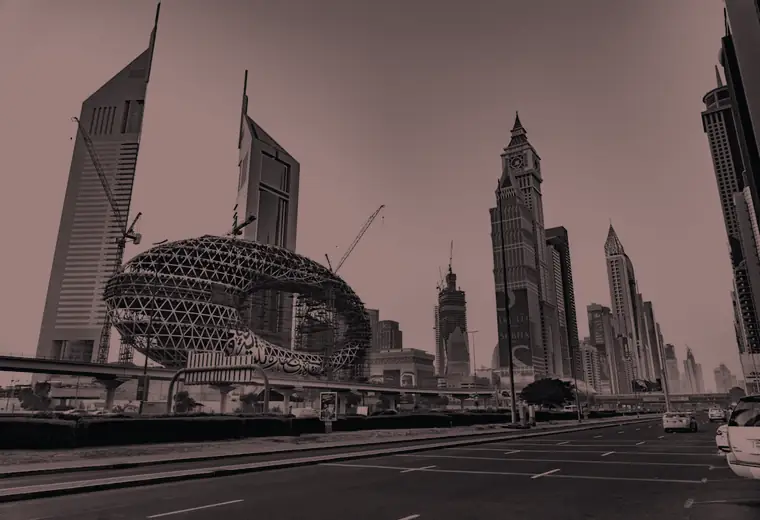
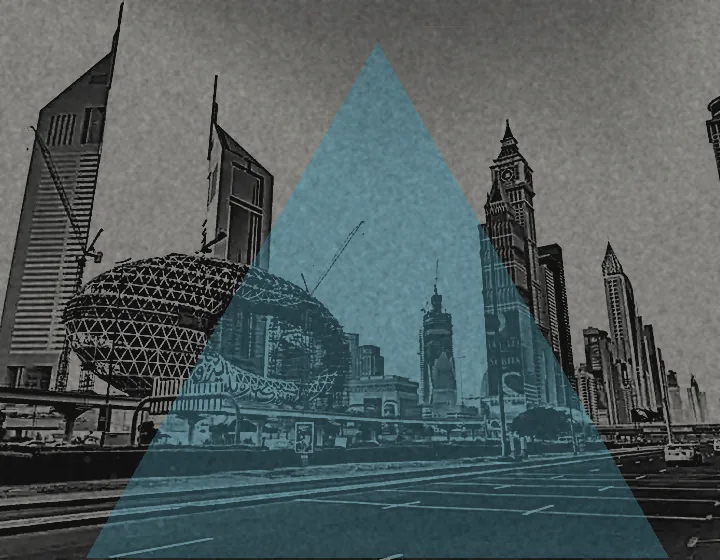
Reprint the whole image set in the deck's press treatment
The guidelines' images are not photographs. They are a paper ground, a gritty
high-contrast photographic plate, flat brand-colour geometry printed slightly
out of register, and visible grain. tools/build_imagery.py rebuilds every image
on the site that way from its own Dubai photography, so what was a stock-photo
grid becomes one press run.

Heroes print on the deck's bone (#cecabe), the inset plate p3 uses. Service
cards print on the charcoal, since they sit inside dark-filling cards, with the
flat shape in the card's own pillar colour. Full-bleed bands carry white copy,
so their shape sits far right at low strength rather than under the text.

Composition varies across the set — scale, placement, and whether the mark is
printed solid or as the logomark's rounded outline — so ten plates read as a run
rather than one template used ten times. Every plate is normalised before the
curve, because night and daylight sources otherwise print at wildly different
densities and the set stops holding together.

Grain is blurred to 0.9px: sharper roughly doubles every file, since WebP cannot
encode high-frequency noise, and that is not a trade worth making on a
fetchpriority=high hero. The card scrim lightened to match, because the
darkening is now printed into the image rather than laid over it.

Also drops the triangular A from the About eyebrow — at 0.68rem with .19em
tracking it detached from its word and read as a broken glyph. It belongs in
display type.
[…]

diff --git a/about.html b/about.html
@@ -245,7 +245,7 @@
  ]
 }
 </script>
-<link rel="stylesheet" href="assets/css/style.css?v=21">
+<link rel="stylesheet" href="assets/css/style.css?v=22">
 </head>
 <body class="is-loading">
 <a class="skip" href="#main">Skip to content</a>
@@ -309,7 +309,7 @@
       <div class="crumbs"><a href="index.html">Home</a> / <span>About</span></div>
       <div class="hero3__grid">
         <div class="hero3__copy">
-          <span class="eyebrow eyebrow--dot"><span class="triA">A</span>bout the firm</span>
+          <span class="eyebrow eyebrow--dot">About the firm</span>
           <h1 class="h-mega split">The people doing the thinking are the people you hire.</h1>
           <p class="say">A strategic advisory firm dedicated to helping businesses navigate complexity and achieve sustainable growth &mdash; working with owners and leadership teams across the UAE and the wider GCC.</p>
           <div class="btn-row"><a class="btn btn--lg" href="contact.html">Book a consultation <svg viewBox="0 0 16 16" fill="none" stroke="currentColor" stroke-width="1.7" aria-hidden="true"><path d="M2 8h12M9 3l5 5-5 5"/></svg></a><a class="btn btn--ghost btn--lg" href="services.html">See what we do <svg viewBox="0 0 16 16" fill="none" stroke="currentColor" stroke-width="1.7" aria-hidden="true"><path d="M2 8h12M9 3l5 5-5 5"/></svg></a></div>
@@ -487,6 +487,6 @@
   <svg viewBox="0 0 24 24" aria-hidden="true"><path d="M12 2a10 10 0 00-8.6 15L2 22l5.2-1.4A10 10 0 1012 2zm0 18a8 8 0 01-4.1-1.1l-.3-.2-3 .8.8-2.9-.2-.3A8 8 0 1112 20zm4.4-5.8c-.2-.1-1.4-.7-1.6-.8s-.4-.1-.6.1-.6.8-.8 1-.3.2-.6.1a6.5 6.5 0 01-3.2-2.8c-.2-.4.2-.4.6-1.2a.5.5 0 000-.5c0-.1-.6-1.4-.8-1.9s-.4-.4-.6-.4h-.5a1 1 0 00-.7.3 2.9 2.9 0 00-.9 2.2 5 5 0 001.1 2.7 11.5 11.5 0 004.4 3.9c1.6.6 2.2.7 3 .6a2.6 2.6 0 001.7-1.2 2.1 2.1 0 00.1-1.2c0-.1-.2-.2-.6-.3z"/></svg>
 </a>
 
-<script src="assets/js/main.js?v=21" defer></script>
+<script src="assets/js/main.js?v=22" defer></script>
 </body>
 </html>

diff --git a/services/advertising-research/index.html b/services/advertising-research/index.html
@@ -30,7 +30,7 @@
 <link rel="preload" as="style" href="https://fonts.googleapis.com/css2?family=Jost:wght@200;300;400;500&family=Poppins:wght@300;400;500;600&display=swap">
 <link rel="stylesheet" href="https://fonts.googleapis.com/css2?family=Jost:wght@200;300;400;500&family=Poppins:wght@300;400;500;600&display=swap" media="print" onload="this.media='all'">
 <noscript><link rel="stylesheet" href="https://fonts.googleapis.com/css2?family=Jost:wght@200;300;400;500&family=Poppins:wght@300;400;500;600&display=swap"></noscript>
-<link rel="stylesheet" href="../../assets/css/style.css?v=21">
+<link rel="stylesheet" href="../../assets/css/style.css?v=22">
 <script type="application/ld+json">
 {
  "@context": "https://schema.org",
@@ -428,6 +428,6 @@
   <svg viewBox="0 0 24 24" aria-hidden="true"><path d="M12 2a10 10 0 00-8.6 15L2 22l5.2-1.4A10 10 0 1012 2zm0 18a8 8 0 01-4.1-1.1l-.3-.2-3 .8.8-2.9-.2-.3A8 8 0 1112 20zm4.4-5.8c-.2-.1-1.4-.7-1.6-.8s-.4-.1-.6.1-.6.8-.8 1-.3.2-.6.1a6.5 6.5 0 01-3.2-2.8c-.2-.4.2-.4.6-1.2a.5.5 0 000-.5c0-.1-.6-1.4-.8-1.9s-.4-.4-.6-.4h-.5a1 1 0 00-.7.3 2.9 2.9 0 00-.9 2.2 5 5 0 001.1 2.7 11.5 11.5 0 004.4 3.9c1.6.6 2.2.7 3 .6a2.6 2.6 0 001.7-1.2 2.1 2.1 0 00.1-1.2c0-.1-.2-.2-.6-.3z"/></svg>
 </a>
 
-<script src="../../assets/js/main.js?v=21" defer></script>
+<script src="../../assets/js/main.js?v=22" defer></script>
 </body>
 </html>

diff --git a/services/innovation-ai/index.html b/services/innovation-ai/index.html
@@ -30,7 +30,7 @@
 <link rel="preload" as="style" href="https://fonts.googleapis.com/css2?family=Jost:wght@200;300;400;500&family=Poppins:wght@300;400;500;600&display=swap">
 <link rel="stylesheet" href="https://fonts.googleapis.com/css2?family=Jost:wght@200;300;400;500&family=Poppins:wght@300;400;500;600&display=swap" media="print" onload="this.media='all'">
 <noscript><link rel="stylesheet" href="https://fonts.googleapis.com/css2?family=Jost:wght@200;300;400;500&family=Poppins:wght@300;400;500;600&display=swap"></noscript>
-<link rel="stylesheet" href="../../assets/css/style.css?v=21">
+<link rel="stylesheet" href="../../assets/css/style.css?v=22">
 <script type="application/ld+json">
 {
  "@context": "https://schema.org",
@@ -414,6 +414,6 @@
   <svg viewBox="0 0 24 24" aria-hidden="true"><path d="M12 2a10 10 0 00-8.6 15L2 22l5.2-1.4A10 10 0 1012 2zm0 18a8 8 0 01-4.1-1.1l-.3-.2-3 .8.8-2.9-.2-.3A8 8 0 1112 20zm4.4-5.8c-.2-.1-1.4-.7-1.6-.8s-.4-.1-.6.1-.6.8-.8 1-.3.2-.6.1a6.5 6.5 0 01-3.2-2.8c-.2-.4.2-.4.6-1.2a.5.5 0 000-.5c0-.1-.6-1.4-.8-1.9s-.4-.4-.6-.4h-.5a1 1 0 00-.7.3 2.9 2.9 0 00-.9 2.2 5 5 0 001.1 2.7 11.5 11.5 0 004.4 3.9c1.6.6 2.2.7 3 .6a2.6 2.6 0 001.7-1.2 2.1 2.1 0 00.1-1.2c0-.1-.2-.2-.6-.3z"/></svg>
 </a>
 
-<script src="../../assets/js/main.js?v=21" defer></script>
+<script src="../../assets/js/main.js?v=22" defer></script>
 </body>
 </html>

diff --git a/services/management-consultancy/index.html b/services/management-consultancy/index.html
@@ -30,7 +30,7 @@
 <link rel="preload" as="style" href="https://fonts.googleapis.com/css2?family=Jost:wght@200;300;400;500&family=Poppins:wght@300;400;500;600&display=swap">
 <link rel="stylesheet" href="https://fonts.googleapis.com/css2?family=Jost:wght@200;300;400;500&family=Poppins:wght@300;400;500;600&display=swap" media="print" onload="this.media='all'">
 <noscript><link rel="stylesheet" href="https://fonts.googleapis.com/css2?family=Jost:wght@200;300;400;500&family=Poppins:wght@300;400;500;600&display=swap"></noscript>
-<link rel="stylesheet" href="../../assets/css/style.css?v=21">
+<link rel="stylesheet" href="../../assets/css/style.css?v=22">
 <script type="application/ld+json">
 {
  "@context": "https://schema.org",
@@ -414,6 +414,6 @@
   <svg viewBox="0 0 24 24" aria-hidden="true"><path d="M12 2a10 10 0 00-8.6 15L2 22l5.2-1.4A10 10 0 1012 2zm0 18a8 8 0 01-4.1-1.1l-.3-.2-3 .8.8-2.9-.2-.3A8 8 0 1112 20zm4.4-5.8c-.2-.1-1.4-.7-1.6-.8s-.4-.1-.6.1-.6.8-.8 1-.3.2-.6.1a6.5 6.5 0 01-3.2-2.8c-.2-.4.2-.4.6-1.2a.5.5 0 000-.5c0-.1-.6-1.4-.8-1.9s-.4-.4-.6-.4h-.5a1 1 0 00-.7.3 2.9 2.9 0 00-.9 2.2 5 5 0 001.1 2.7 11.5 11.5 0 004.4 3.9c1.6.6 2.2.7 3 .6a2.6 2.6 0 001.7-1.2 2.1 2.1 0 00.1-1.2c0-.1-.2-.2-.6-.3z"/></svg>
 </a>
 
-<script src="../../assets/js/main.js?v=21" defer></script>
+<script src="../../assets/js/main.js?v=22" defer></script>
 </body>
 </html>

diff --git a/services/marketing-research/index.html b/services/marketing-research/index.html
@@ -30,7 +30,7 @@
 <link rel="preload" as="style" href="https://fonts.googleapis.com/css2?family=Jost:wght@200;300;400;500&family=Poppins:wght@300;400;500;600&display=swap">
 <link rel="stylesheet" href="https://fonts.googleapis.com/css2?family=Jost:wght@200;300;400;500&family=Poppins:wght@300;400;500;600&display=swap" media="print" onload="this.media='all'">
 <noscript><link rel="stylesheet" href="https://fonts.googleapis.com/css2?family=Jost:wght@200;300;400;500&family=Poppins:wght@300;400;500;600&display=swap"></noscript>
-<link rel="stylesheet" href="../../assets/css/style.css?v=21">
+<link rel="stylesheet" href="../../assets/css/style.css?v=22">
 <script type="application/ld+json">
 {
  "@context": "https://schema.org",
@@ -414,6 +414,6 @@
   <svg viewBox="0 0 24 24" aria-hidden="true"><path d="M12 2a10 10 0 00-8.6 15L2 22l5.2-1.4A10 10 0 1012 2zm0 18a8 8 0 01-4.1-1.1l-.3-.2-3 .8.8-2.9-.2-.3A8 8 0 1112 20zm4.4-5.8c-.2-.1-1.4-.7-1.6-.8s-.4-.1-.6.1-.6.8-.8 1-.3.2-.6.1a6.5 6.5 0 01-3.2-2.8c-.2-.4.2-.4.6-1.2a.5.5 0 000-.5c0-.1-.6-1.4-.8-1.9s-.4-.4-.6-.4h-.5a1 1 0 00-.7.3 2.9 2.9 0 00-.9 2.2 5 5 0 001.1 2.7 11.5 11.5 0 004.4 3.9c1.6.6 2.2.7 3 .6a2.6 2.6 0 001.7-1.2 2.1 2.1 0 00.1-1.2c0-.1-.2-.2-.6-.3z"/></svg>
 </a>
 
-<script src="../../assets/js/main.js?v=21" defer></script>
+<script src="../../assets/js/main.js?v=22" defer></script>
 </body>
 </html>

diff --git a/services/project-development/index.html b/services/project-development/index.html
@@ -30,7 +30,7 @@
 <link rel="preload" as="style" href="https://fonts.googleapis.com/css2?family=Jost:wght@200;300;400;500&family=Poppins:wght@300;400;500;600&display=swap">
 <link rel="stylesheet" href="https://fonts.googleapis.com/css2?family=Jost:wght@200;300;400;500&family=Poppins:wght@300;400;500;600&display=swap" media="print" onload="this.media='all'">
 <noscript><link rel="stylesheet" href="https://fonts.googleapis.com/css2?family=Jost:wght@200;300;400;500&family=Poppins:wght@300;400;500;600&display=swap"></noscript>
-<link rel="stylesheet" href="../../assets/css/style.css?v=21">
+<link rel="stylesheet" href="../../assets/css/style.css?v=22">
 <script type="application/ld+json">
 {
  "@context": "https://schema.org",
@@ -414,6 +414,6 @@
   <svg viewBox="0 0 24 24" aria-hidden="true"><path d="M12 2a10 10 0 00-8.6 15L2 22l5.2-1.4A10 10 0 1012 2zm0 18a8 8 0 01-4.1-1.1l-.3-.2-3 .8.8-2.9-.2-.3A8 8 0 1112 20zm4.4-5.8c-.2-.1-1.4-.7-1.6-.8s-.4-.1-.6.1-.6.8-.8 1-.3.2-.6.1a6.5 6.5 0 01-3.2-2.8c-.2-.4.2-.4.6-1.2a.5.5 0 000-.5c0-.1-.6-1.4-.8-1.9s-.4-.4-.6-.4h-.5a1 1 0 00-.7.3 2.9 2.9 0 00-.9 2.2 5 5 0 001.1 2.7 11.5 11.5 0 004.4 3.9c1.6.6 2.2.7 3 .6a2.6 2.6 0 001.7-1.2 2.1 2.1 0 00.1-1.2c0-.1-.2-.2-.6-.3z"/></svg>
 </a>
 
-<script src="../../assets/js/main.js?v=21" defer></script>
+<script src="../../assets/js/main.js?v=22" defer></script>
 </body>
 </html>

diff --git a/services/sourcing-procurement/index.html b/services/sourcing-procurement/index.html
@@ -30,7 +30,7 @@
 <link rel="preload" as="style" href="https://fonts.googleapis.com/css2?family=Jost:wght@200;300;400;500&family=Poppins:wght@300;400;500;600&display=swap">
 <link rel="stylesheet" href="https://fonts.googleapis.com/css2?family=Jost:wght@200;300;400;500&family=Poppins:wght@300;400;500;600&display=swap" media="print" onload="this.media='all'">
 <noscript><link rel="stylesheet" href="https://fonts.googleapis.com/css2?family=Jost:wght@200;300;400;500&family=Poppins:wght@300;400;500;600&display=swap"></noscript>
-<link rel="stylesheet" href="../../assets/css/style.css?v=21">
+<link rel="stylesheet" href="../../assets/css/style.css?v=22">
 <script type="application/ld+json">
 {
  "@context": "https://schema.org",
@@ -414,6 +414,6 @@
   <svg viewBox="0 0 24 24" aria-hidden="true"><path d="M12 2a10 10 0 00-8.6 15L2 22l5.2-1.4A10 10 0 1012 2zm0 18a8 8 0 01-4.1-1.1l-.3-.2-3 .8.8-2.9-.2-.3A8 8 0 1112 20zm4.4-5.8c-.2-.1-1.4-.7-1.6-.8s-.4-.1-.6.1-.6.8-.8 1-.3.2-.6.1a6.5 6.5 0 01-3.2-2.8c-.2-.4.2-.4.6-1.2a.5.5 0 000-.5c0-.1-.6-1.4-.8-1.9s-.4-.4-.6-.4h-.5a1 1 0 00-.7.3 2.9 2.9 0 00-.9 2.2 5 5 0 001.1 2.7 11.5 11.5 0 004.4 3.9c1.6.6 2.2.7 3 .6a2.6 2.6 0 001.7-1.2 2.1 2.1 0 00.1-1.2c0-.1-.2-.2-.6-.3z"/></svg>
 </a>
 
-<script src="../../assets/js/main.js?v=21" defer></script>
+<script src="../../assets/js/main.js?v=22" defer></script>
 </body>
 </html>

diff --git a/404.html b/404.html
@@ -29,7 +29,7 @@
 <link rel="preload" as="style" href="https://fonts.googleapis.com/css2?family=Jost:wght@200;300;400;500&family=Poppins:wght@300;400;500;600&display=swap">
 <link rel="stylesheet" href="https://fonts.googleapis.com/css2?family=Jost:wght@200;300;400;500&family=Poppins:wght@300;400;500;600&display=swap" media="print" onload="this.media='all'">
 <noscript><link rel="stylesheet" href="https://fonts.googleapis.com/css2?family=Jost:wght@200;300;400;500&family=Poppins:wght@300;400;500;600&display=swap"></noscript>
-<link rel="stylesheet" href="assets/css/style.css?v=21">
+<link rel="stylesheet" href="assets/css/style.css?v=22">
 </head>
 <body class="is-loading">
 <a class="skip" href="#main">Skip to content</a>
@@ -182,6 +182,6 @@
   <svg viewBox="0 0 24 24" aria-hidden="true"><path d="M12 2a10 10 0 00-8.6 15L2 22l5.2-1.4A10 10 0 1012 2zm0 18a8 8 0 01-4.1-1.1l-.3-.2-3 .8.8-2.9-.2-.3A8 8 0 1112 20zm4.4-5.8c-.2-.1-1.4-.7-1.6-.8s-.4-.1-.6.1-.6.8-.8 1-.3.2-.6.1a6.5 6.5 0 01-3.2-2.8c-.2-.4.2-.4.6-1.2a.5.5 0 000-.5c0-.1-.6-1.4-.8-1.9s-.4-.4-.6-.4h-.5a1 1 0 00-.7.3 2.9 2.9 0 00-.9 2.2 5 5 0 001.1 2.7 11.5 11.5 0 004.4 3.9c1.6.6 2.2.7 3 .6a2.6 2.6 0 001.7-1.2 2.1 2.1 0 00.1-1.2c0-.1-.2-.2-.6-.3z"/></svg>
 </a>
 
-<script src="assets/js/main.js?v=21" defer></script>
+<script src="assets/js/main.js?v=22" defer></script>
 </body>
 </html>

diff --git a/assets/css/style.css b/assets/css/style.css
@@ -1103,7 +1103,7 @@ body.menu-open .menu__foot{opacity:1;transform:none}
 .bs__go svg{width:12px;height:12px;stroke:currentColor;fill:none;stroke-width:1.8;
   transition:transform .4s var(--e-out)}
 .bs::before{content:"";position:absolute;inset:0;background-color:var(--ink);
-  background-image:linear-gradient(rgba(9,11,14,.58),rgba(9,11,14,.82)),var(--img,none);
+  background-image:linear-gradient(rgba(28,29,29,.18),rgba(28,29,29,.66)),var(--img,none);
   background-size:cover;background-position:center;
   clip-path:polygon(100% 0,100% 0,100% 100%,100% 100%);
   transition:clip-path .55s var(--e-out);z-index:0}
@@ -1172,7 +1172,7 @@ body.menu-open .menu__foot{opacity:1;transform:none}
   .hero3__mark{width:62px;height:62px}
   .hero3__mark span{display:none}
   .slab__pts{grid-template-columns:1fr;gap:1.4rem}
-  .slab__bg::after{background:linear-gradient(180deg,rgba(10,12,15,.88),rgba(10,12,15,.72))}
+  .slab__bg::after{background:linear-gradient(180deg,rgba(30,31,31,.86),rgba(30,31,31,.70))}
 }
 @media (max-width:620px){
   .big-svc,.steps4{grid-template-columns:1fr}

diff --git a/contact.html b/contact.html
@@ -299,7 +299,7 @@
  ]
 }
 </script>
-<link rel="stylesheet" href="assets/css/style.css?v=21">
+<link rel="stylesheet" href="assets/css/style.css?v=22">
 </head>
 <body class="is-loading">
 <a class="skip" href="#main">Skip to content</a>
@@ -574,6 +574,6 @@
   <svg viewBox="0 0 24 24" aria-hidden="true"><path d="M12 2a10 10 0 00-8.6 15L2 22l5.2-1.4A10 10 0 1012 2zm0 18a8 8 0 01-4.1-1.1l-.3-.2-3 .8.8-2.9-.2-.3A8 8 0 1112 20zm4.4-5.8c-.2-.1-1.4-.7-1.6-.8s-.4-.1-.6.1-.6.8-.8 1-.3.2-.6.1a6.5 6.5 0 01-3.2-2.8c-.2-.4.2-.4.6-1.2a.5.5 0 000-.5c0-.1-.6-1.4-.8-1.9s-.4-.4-.6-.4h-.5a1 1 0 00-.7.3 2.9 2.9 0 00-.9 2.2 5 5 0 001.1 2.7 11.5 11.5 0 004.4 3.9c1.6.6 2.2.7 3 .6a2.6 2.6 0 001.7-1.2 2.1 2.1 0 00.1-1.2c0-.1-.2-.2-.6-.3z"/></svg>
 </a>
 
-<script src="assets/js/main.js?v=21" defer></script>
+<script src="assets/js/main.js?v=22" defer></script>
 </body>
 </html>

diff --git a/index.html b/index.html
@@ -228,7 +228,7 @@
  ]
 }
 </script>
-<link rel="stylesheet" href="assets/css/style.css?v=21">
+<link rel="stylesheet" href="assets/css/style.css?v=22">
 </head>
 <body class="is-loading">
 <a class="skip" href="#main">Skip to content</a>
@@ -542,6 +542,6 @@
   <svg viewBox="0 0 24 24" aria-hidden="true"><path d="M12 2a10 10 0 00-8.6 15L2 22l5.2-1.4A10 10 0 1012 2zm0 18a8 8 0 01-4.1-1.1l-.3-.2-3 .8.8-2.9-.2-.3A8 8 0 1112 20zm4.4-5.8c-.2-.1-1.4-.7-1.6-.8s-.4-.1-.6.1-.6.8-.8 1-.3.2-.6.1a6.5 6.5 0 01-3.2-2.8c-.2-.4.2-.4.6-1.2a.5.5 0 000-.5c0-.1-.6-1.4-.8-1.9s-.4-.4-.6-.4h-.5a1 1 0 00-.7.3 2.9 2.9 0 00-.9 2.2 5 5 0 001.1 2.7 11.5 11.5 0 004.4 3.9c1.6.6 2.2.7 3 .6a2.6 2.6 0 001.7-1.2 2.1 2.1 0 00.1-1.2c0-.1-.2-.2-.6-.3z"/></svg>
 </a>
 
-<script src="assets/js/main.js?v=21" defer></script>
+<script src="assets/js/main.js?v=22" defer></script>
 </body>
 </html>

diff --git a/services.html b/services.html
@@ -371,7 +371,7 @@
  ]
 }
 </script>
-<link rel="stylesheet" href="assets/css/style.css?v=21">
+<link rel="stylesheet" href="assets/css/style.css?v=22">
 </head>
 <body class="is-loading">
 <a class="skip" href="#main">Skip to content</a>
@@ -620,6 +620,6 @@
   <svg viewBox="0 0 24 24" aria-hidden="true"><path d="M12 2a10 10 0 00-8.6 15L2 22l5.2-1.4A10 10 0 1012 2zm0 18a8 8 0 01-4.1-1.1l-.3-.2-3 .8.8-2.9-.2-.3A8 8 0 1112 20zm4.4-5.8c-.2-.1-1.4-.7-1.6-.8s-.4-.1-.6.1-.6.8-.8 1-.3.2-.6.1a6.5 6.5 0 01-3.2-2.8c-.2-.4.2-.4.6-1.2a.5.5 0 000-.5c0-.1-.6-1.4-.8-1.9s-.4-.4-.6-.4h-.5a1 1 0 00-.7.3 2.9 2.9 0 00-.9 2.2 5 5 0 001.1 2.7 11.5 11.5 0 004.4 3.9c1.6.6 2.2.7 3 .6a2.6 2.6 0 001.7-1.2 2.1 2.1 0 00.1-1.2c0-.1-.2-.2-.6-.3z"/></svg>
 </a>
 
-<script src="assets/js/main.js?v=21" defer></script>
+<script src="assets/js/main.js?v=22" defer></script>
 </body>
 </html>
